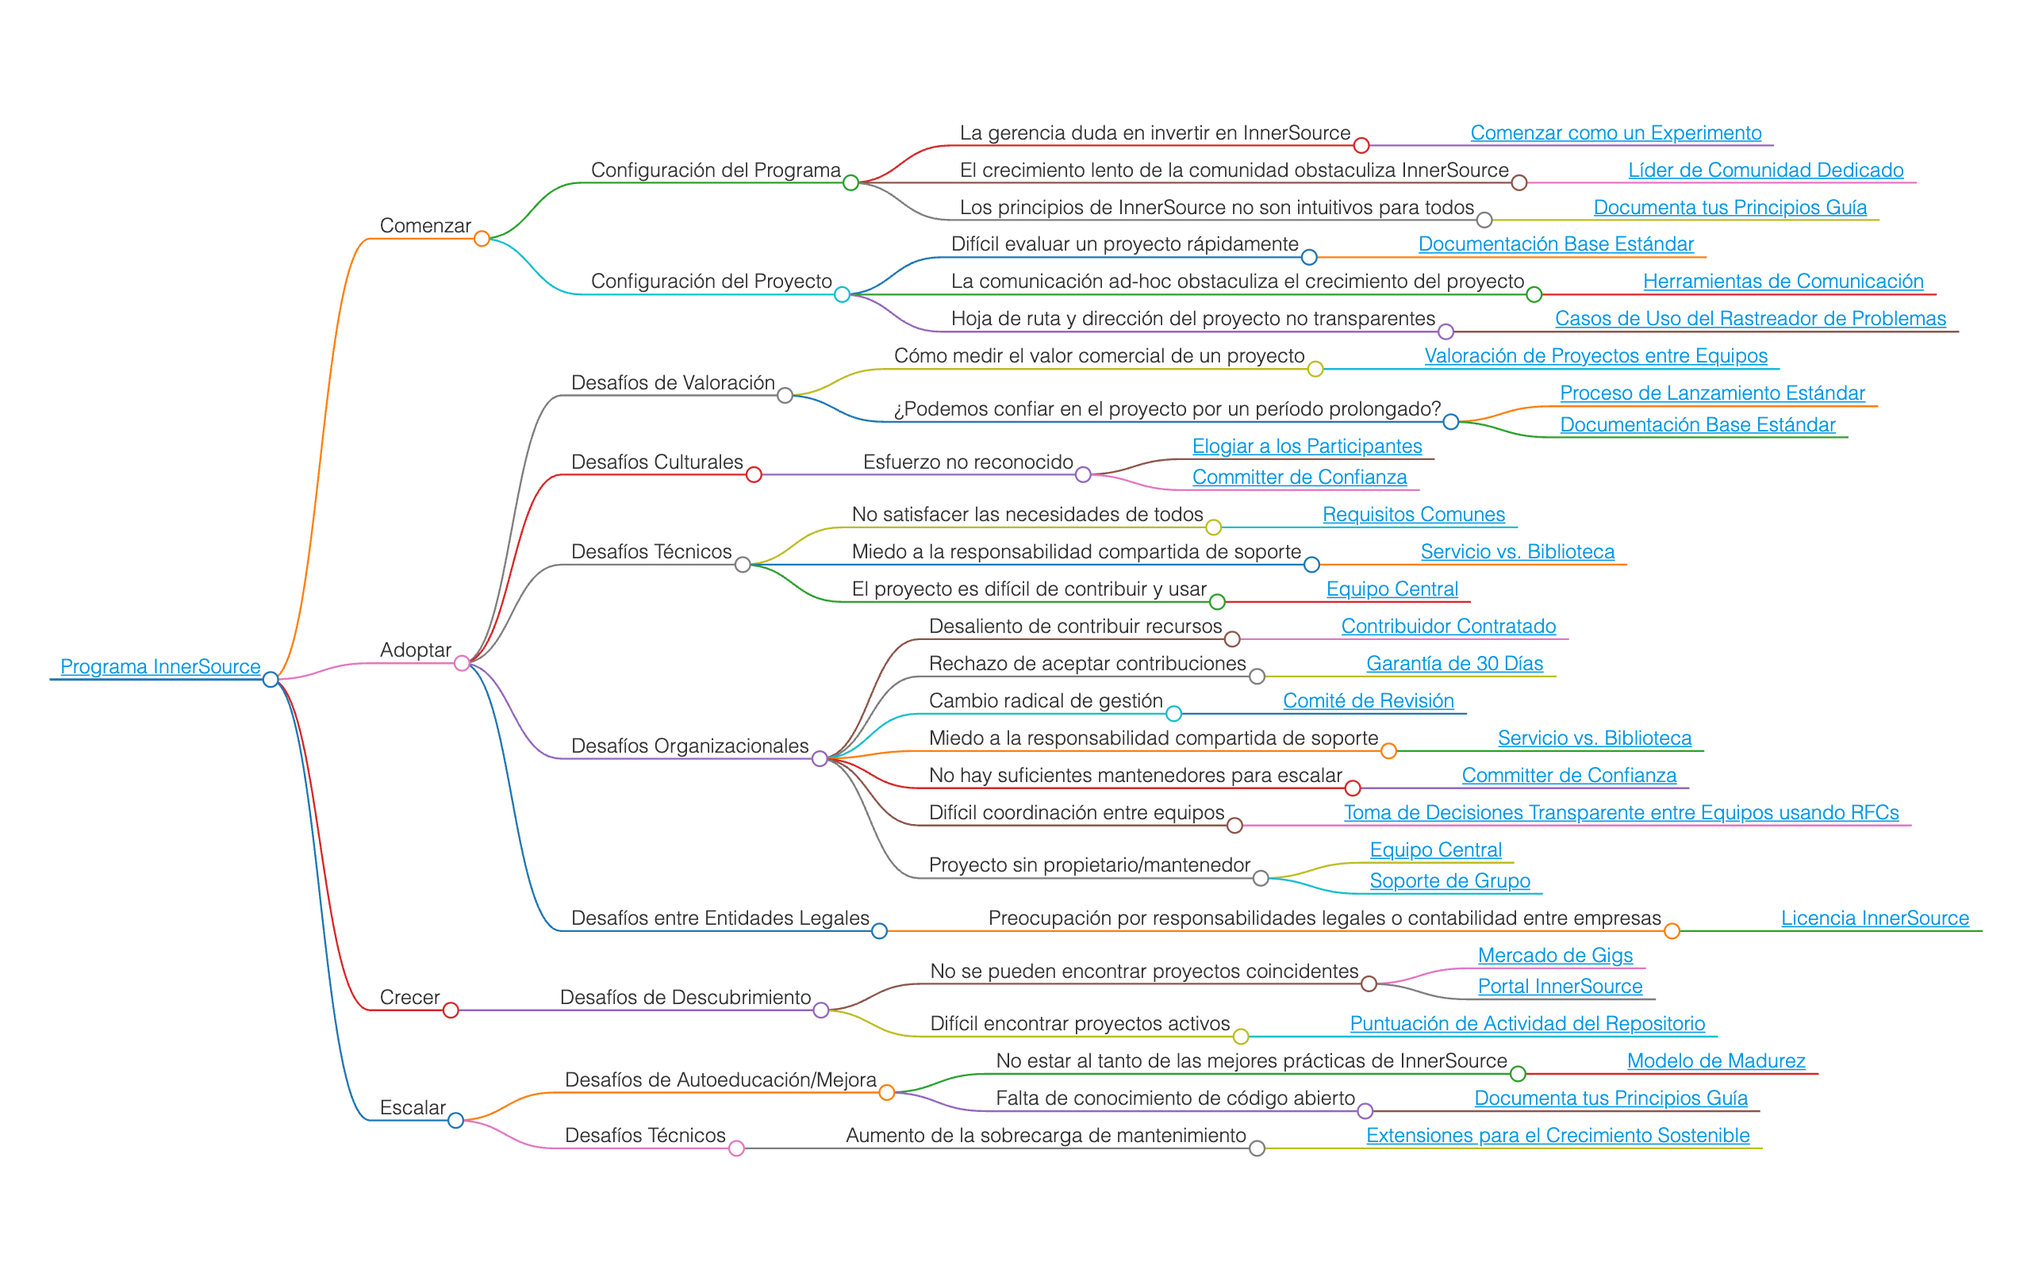
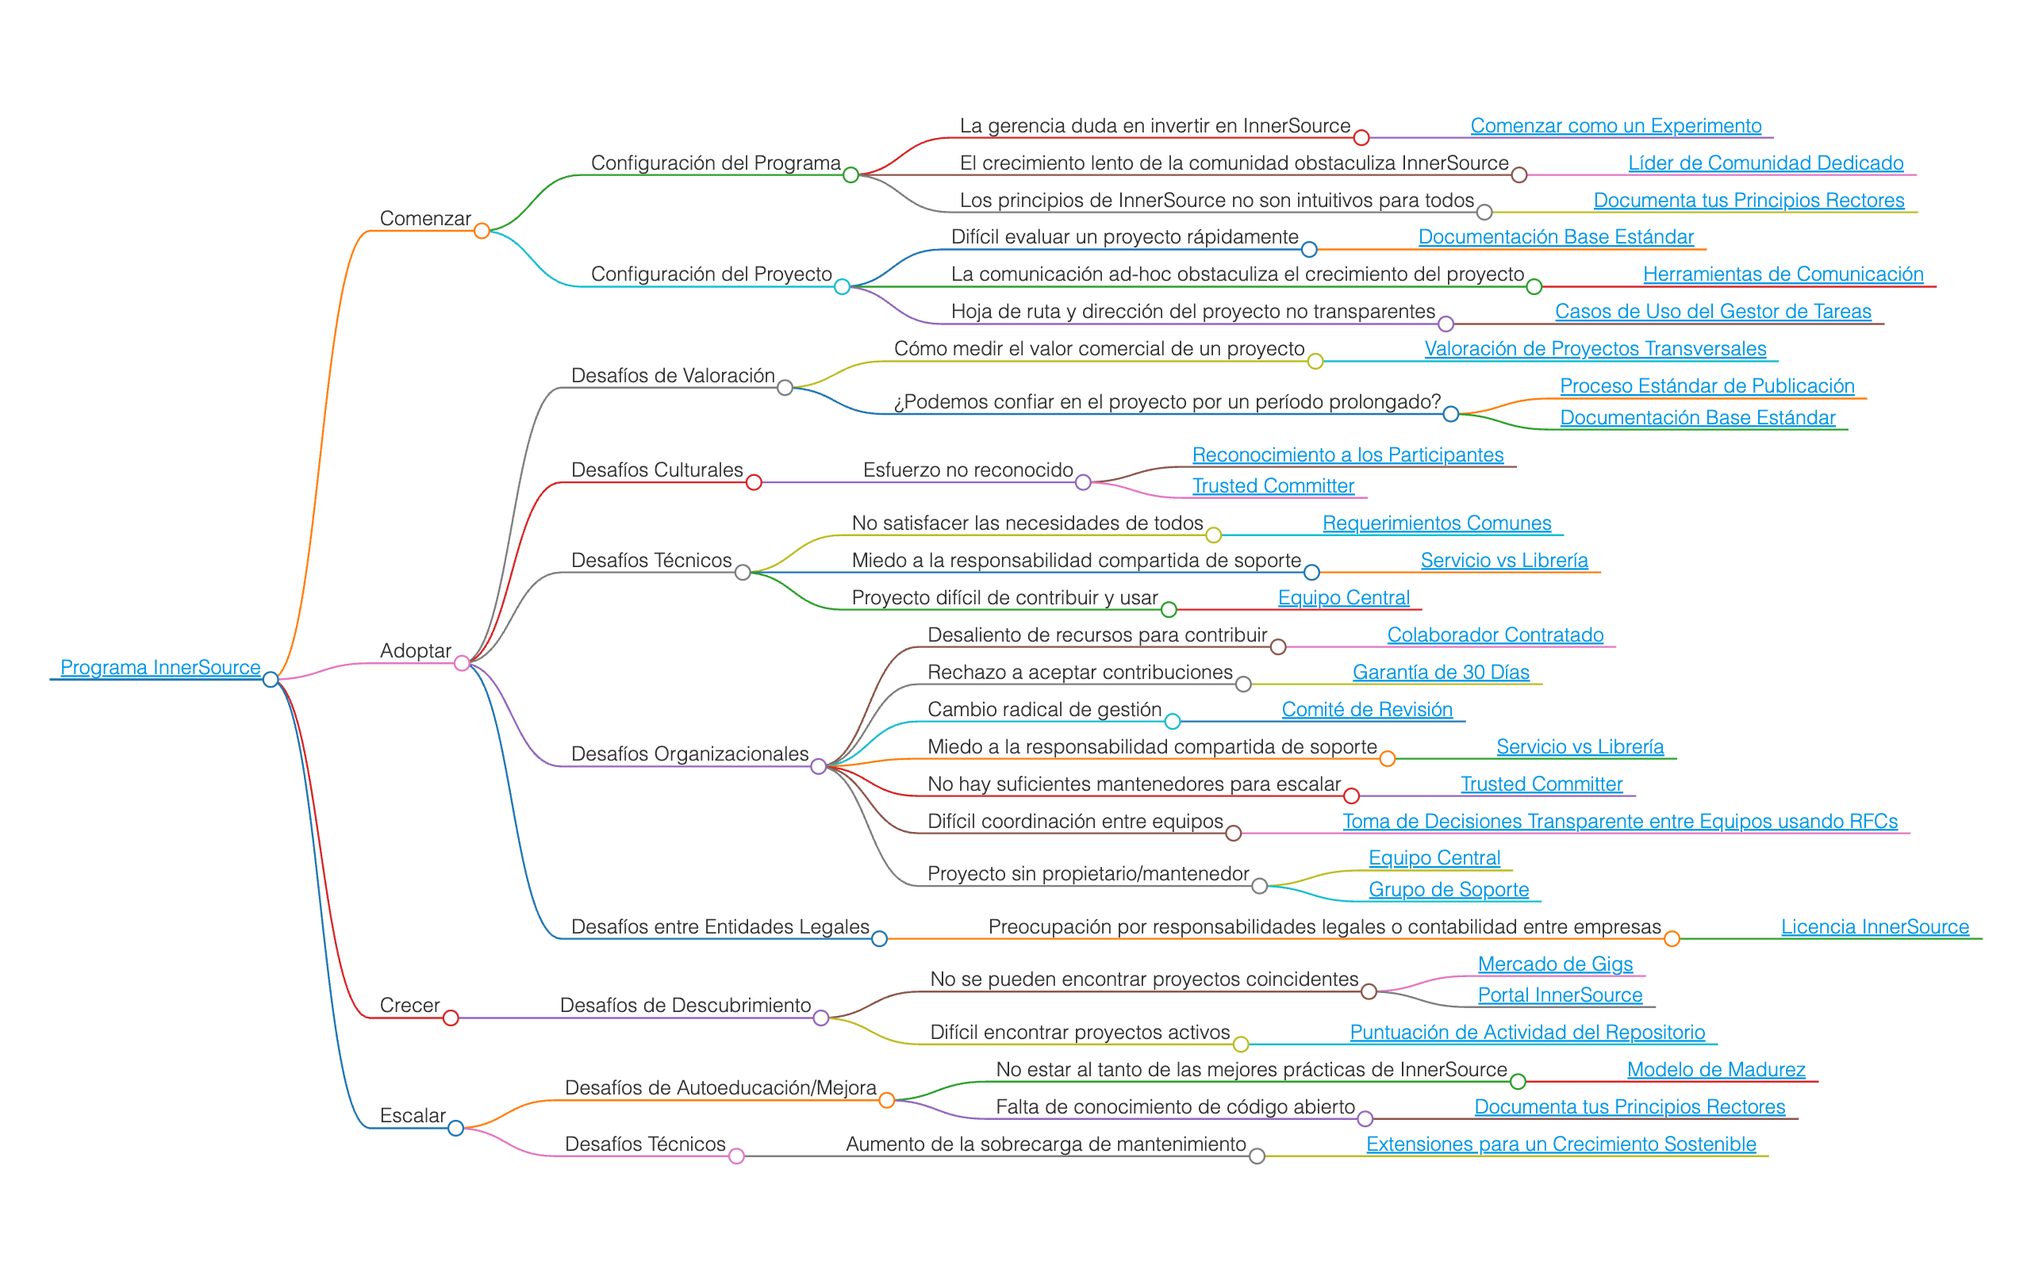
Regenerate mindmap

diff --git a/pattern-categorization/es/innersource-program-mind-map.html b/pattern-categorization/es/innersource-program-mind-map.html
@@ -27,6 +27,6 @@
                 (getOptions || markmap.deriveOptions)(jsonOptions),
                 root2
               );
-            })(() => window.markmap,null,{"content":"<a href=\"https://patterns.innersourcecommons.org/toc\">Programa InnerSource</a>","children":[{"content":"Comenzar","children":[{"content":"Configuración del Programa","children":[{"content":"La gerencia duda en invertir en InnerSource","children":[{"content":"<a href=\"https://patterns.innersourcecommons.org/p/start-as-experiment\">Comenzar como un Experimento</a>","children":[],"payload":{"tag":"h5","lines":"8,9"}}],"payload":{"tag":"h4","lines":"6,7"}},{"content":"El crecimiento lento de la comunidad obstaculiza InnerSource","children":[{"content":"<a href=\"https://patterns.innersourcecommons.org/p/dedicated-community-leader\">Líder de Comunidad Dedicado</a>","children":[],"payload":{"tag":"h5","lines":"12,13"}}],"payload":{"tag":"h4","lines":"10,11"}},{"content":"Los principios de InnerSource no son intuitivos para todos","children":[{"content":"<a href=\"https://patterns.innersourcecommons.org/p/document-your-guiding-principles\">Documenta tus Principios Guía</a>","children":[],"payload":{"tag":"h5","lines":"16,17"}}],"payload":{"tag":"h4","lines":"14,15"}}],"payload":{"tag":"h3","lines":"4,5"}},{"content":"Configuración del Proyecto","children":[{"content":"Difícil evaluar un proyecto rápidamente","children":[{"content":"<a href=\"https://patterns.innersourcecommons.org/p/base-documentation\">Documentación Base Estándar</a>","children":[],"payload":{"tag":"h5","lines":"22,23"}}],"payload":{"tag":"h4","lines":"20,21"}},{"content":"La comunicación ad-hoc obstaculiza el crecimiento del proyecto","children":[{"content":"<a href=\"https://patterns.innersourcecommons.org/p/communication-tooling\">Herramientas de Comunicación</a>","children":[],"payload":{"tag":"h5","lines":"26,27"}}],"payload":{"tag":"h4","lines":"24,25"}},{"content":"Hoja de ruta y dirección del proyecto no transparentes","children":[{"content":"<a href=\"https://patterns.innersourcecommons.org/p/issue-tracker\">Casos de Uso del Gestor de Tareas</a>","children":[],"payload":{"tag":"h5","lines":"30,31"}}],"payload":{"tag":"h4","lines":"28,29"}}],"payload":{"tag":"h3","lines":"18,19"}}],"payload":{"tag":"h2","lines":"2,3"}},{"content":"Adoptar","children":[{"content":"Desafíos de Valoración","children":[{"content":"Cómo medir el valor comercial de un proyecto","children":[{"content":"<a href=\"https://patterns.innersourcecommons.org/p/crossteam-project-valuation\">Valoración de Proyectos Transversales</a>","children":[],"payload":{"tag":"h5","lines":"38,39"}}],"payload":{"tag":"h4","lines":"36,37"}},{"content":"¿Podemos confiar en el proyecto por un período prolongado?","children":[{"content":"<a href=\"https://patterns.innersourcecommons.org/p/release-process\">Proceso de Lanzamiento Estándar</a>","children":[],"payload":{"tag":"h5","lines":"42,43"}},{"content":"<a href=\"https://patterns.innersourcecommons.org/p/base-documentation\">Documentación Base Estándar</a>","children":[],"payload":{"tag":"h5","lines":"44,45"}}],"payload":{"tag":"h4","lines":"40,41"}}],"payload":{"tag":"h3","lines":"34,35"}},{"content":"Desafíos Culturales","children":[{"content":"Esfuerzo no reconocido","children":[{"content":"<a href=\"https://patterns.innersourcecommons.org/p/praise-participants\">Reconocimiento a los Participantes</a>","children":[],"payload":{"tag":"h5","lines":"50,51"}},{"content":"<a href=\"https://patterns.innersourcecommons.org/p/trusted-committer\">Trusted Committer</a>","children":[],"payload":{"tag":"h5","lines":"52,53"}}],"payload":{"tag":"h4","lines":"48,49"}}],"payload":{"tag":"h3","lines":"46,47"}},{"content":"Desafíos Técnicos","children":[{"content":"No satisfacer las necesidades de todos","children":[{"content":"<a href=\"https://patterns.innersourcecommons.org/p/common-requirements\">Requisitos Comunes</a>","children":[],"payload":{"tag":"h5","lines":"58,59"}}],"payload":{"tag":"h4","lines":"56,57"}},{"content":"Miedo a la responsabilidad compartida de soporte","children":[{"content":"<a href=\"https://patterns.innersourcecommons.org/p/service-vs-library\">Servicio vs. Librería</a>","children":[],"payload":{"tag":"h5","lines":"62,63"}}],"payload":{"tag":"h4","lines":"60,61"}},{"content":"El proyecto es difícil de contribuir y usar","children":[{"content":"<a href=\"https://patterns.innersourcecommons.org/p/core-team\">Equipo Central</a>","children":[],"payload":{"tag":"h5","lines":"66,67"}}],"payload":{"tag":"h4","lines":"64,65"}}],"payload":{"tag":"h3","lines":"54,55"}},{"content":"Desafíos Organizacionales","children":[{"content":"Desaliento de contribuir recursos","children":[{"content":"<a href=\"https://patterns.innersourcecommons.org/p/contracted-contributor\">Contribuidor Contratado</a>","children":[],"payload":{"tag":"h5","lines":"72,73"}}],"payload":{"tag":"h4","lines":"70,71"}},{"content":"Rechazo de aceptar contribuciones","children":[{"content":"<a href=\"https://patterns.innersourcecommons.org/p/30-day-warranty\">Garantía de 30 Días</a>","children":[],"payload":{"tag":"h5","lines":"76,77"}}],"payload":{"tag":"h4","lines":"74,75"}},{"content":"Cambio radical de gestión","children":[{"content":"<a href=\"https://patterns.innersourcecommons.org/p/review-committee\">Comité de Revisión</a>","children":[],"payload":{"tag":"h5","lines":"80,81"}}],"payload":{"tag":"h4","lines":"78,79"}},{"content":"Miedo a la responsabilidad compartida de soporte","children":[{"content":"<a href=\"https://patterns.innersourcecommons.org/p/service-vs-library\">Servicio vs. Librería</a>","children":[],"payload":{"tag":"h5","lines":"84,85"}}],"payload":{"tag":"h4","lines":"82,83"}},{"content":"No hay suficientes mantenedores para escalar","children":[{"content":"<a href=\"https://patterns.innersourcecommons.org/p/trusted-committer\">Trusted Committer</a>","children":[],"payload":{"tag":"h5","lines":"88,89"}}],"payload":{"tag":"h4","lines":"86,87"}},{"content":"Difícil coordinación entre equipos","children":[{"content":"<a href=\"https://patterns.innersourcecommons.org/p/transparent-cross-team-decision-making-using-rfcs\">Toma de Decisiones Transparente entre Equipos usando RFCs</a>","children":[],"payload":{"tag":"h5","lines":"92,93"}}],"payload":{"tag":"h4","lines":"90,91"}},{"content":"Proyecto sin propietario/mantenedor","children":[{"content":"<a href=\"https://patterns.innersourcecommons.org/p/core-team\">Equipo Central</a>","children":[],"payload":{"tag":"h5","lines":"96,97"}},{"content":"<a href=\"https://patterns.innersourcecommons.org/p/group-support\">Soporte de Grupo</a>","children":[],"payload":{"tag":"h5","lines":"98,99"}}],"payload":{"tag":"h4","lines":"94,95"}}],"payload":{"tag":"h3","lines":"68,69"}},{"content":"Desafíos entre Entidades Legales","children":[{"content":"Preocupación por responsabilidades legales o contabilidad entre empresas","children":[{"content":"<a href=\"https://patterns.innersourcecommons.org/p/innersource-license\">Licencia InnerSource</a>","children":[],"payload":{"tag":"h5","lines":"104,105"}}],"payload":{"tag":"h4","lines":"102,103"}}],"payload":{"tag":"h3","lines":"100,101"}}],"payload":{"tag":"h2","lines":"32,33"}},{"content":"Crecer","children":[{"content":"Desafíos de Descubrimiento","children":[{"content":"No se pueden encontrar proyectos coincidentes","children":[{"content":"<a href=\"https://patterns.innersourcecommons.org/p/gig-marketplace\">Mercado de Gigs</a>","children":[],"payload":{"tag":"h5","lines":"112,113"}},{"content":"<a href=\"https://patterns.innersourcecommons.org/p/innersource-portal\">Portal InnerSource</a>","children":[],"payload":{"tag":"h5","lines":"114,115"}}],"payload":{"tag":"h4","lines":"110,111"}},{"content":"Difícil encontrar proyectos activos","children":[{"content":"<a href=\"https://patterns.innersourcecommons.org/p/repository-activity-score\">Puntuación de Actividad del Repositorio</a>","children":[],"payload":{"tag":"h5","lines":"118,119"}}],"payload":{"tag":"h4","lines":"116,117"}}],"payload":{"tag":"h3","lines":"108,109"}}],"payload":{"tag":"h2","lines":"106,107"}},{"content":"Escalar","children":[{"content":"Desafíos de Autoeducación/Mejora","children":[{"content":"No estar al tanto de las mejores prácticas de InnerSource","children":[{"content":"<a href=\"https://patterns.innersourcecommons.org/p/maturity-model\">Modelo de Madurez</a>","children":[],"payload":{"tag":"h5","lines":"126,127"}}],"payload":{"tag":"h4","lines":"124,125"}},{"content":"Falta de conocimiento de código abierto","children":[{"content":"<a href=\"https://patterns.innersourcecommons.org/p/document-your-guiding-principles\">Documenta tus Principios Guía</a>","children":[],"payload":{"tag":"h5","lines":"130,131"}}],"payload":{"tag":"h4","lines":"128,129"}}],"payload":{"tag":"h3","lines":"122,123"}},{"content":"Desafíos Técnicos","children":[{"content":"Aumento de la sobrecarga de mantenimiento","children":[{"content":"<a href=\"https://patterns.innersourcecommons.org/p/extensions-for-sustainable-growth\">Extensiones para el Crecimiento Sostenible</a>","children":[],"payload":{"tag":"h5","lines":"136,137"}}],"payload":{"tag":"h4","lines":"134,135"}}],"payload":{"tag":"h3","lines":"132,133"}}],"payload":{"tag":"h2","lines":"120,121"}}],"payload":{"tag":"h1","lines":"0,1"}},null)</script>
+            })(() => window.markmap,null,{"content":"<a href=\"https://patterns.innersourcecommons.org/toc\">Programa InnerSource</a>","children":[{"content":"Comenzar","children":[{"content":"Configuración del Programa","children":[{"content":"La gerencia duda en invertir en InnerSource","children":[{"content":"<a href=\"https://patterns.innersourcecommons.org/p/start-as-experiment\">Comenzar como un Experimento</a>","children":[],"payload":{"tag":"h5","lines":"8,9"}}],"payload":{"tag":"h4","lines":"6,7"}},{"content":"El crecimiento lento de la comunidad obstaculiza InnerSource","children":[{"content":"<a href=\"https://patterns.innersourcecommons.org/p/dedicated-community-leader\">Líder de Comunidad Dedicado</a>","children":[],"payload":{"tag":"h5","lines":"12,13"}}],"payload":{"tag":"h4","lines":"10,11"}},{"content":"Los principios de InnerSource no son intuitivos para todos","children":[{"content":"<a href=\"https://patterns.innersourcecommons.org/p/document-your-guiding-principles\">Documenta tus Principios Rectores</a>","children":[],"payload":{"tag":"h5","lines":"16,17"}}],"payload":{"tag":"h4","lines":"14,15"}}],"payload":{"tag":"h3","lines":"4,5"}},{"content":"Configuración del Proyecto","children":[{"content":"Difícil evaluar un proyecto rápidamente","children":[{"content":"<a href=\"https://patterns.innersourcecommons.org/p/base-documentation\">Documentación Base Estándar</a>","children":[],"payload":{"tag":"h5","lines":"22,23"}}],"payload":{"tag":"h4","lines":"20,21"}},{"content":"La comunicación ad-hoc obstaculiza el crecimiento del proyecto","children":[{"content":"<a href=\"https://patterns.innersourcecommons.org/p/communication-tooling\">Herramientas de Comunicación</a>","children":[],"payload":{"tag":"h5","lines":"26,27"}}],"payload":{"tag":"h4","lines":"24,25"}},{"content":"Hoja de ruta y dirección del proyecto no transparentes","children":[{"content":"<a href=\"https://patterns.innersourcecommons.org/p/issue-tracker\">Casos de Uso del Gestor de Tareas</a>","children":[],"payload":{"tag":"h5","lines":"30,31"}}],"payload":{"tag":"h4","lines":"28,29"}}],"payload":{"tag":"h3","lines":"18,19"}}],"payload":{"tag":"h2","lines":"2,3"}},{"content":"Adoptar","children":[{"content":"Desafíos de Valoración","children":[{"content":"Cómo medir el valor comercial de un proyecto","children":[{"content":"<a href=\"https://patterns.innersourcecommons.org/p/crossteam-project-valuation\">Valoración de Proyectos Transversales</a>","children":[],"payload":{"tag":"h5","lines":"38,39"}}],"payload":{"tag":"h4","lines":"36,37"}},{"content":"¿Podemos confiar en el proyecto por un período prolongado?","children":[{"content":"<a href=\"https://patterns.innersourcecommons.org/p/release-process\">Proceso Estándar de Publicación</a>","children":[],"payload":{"tag":"h5","lines":"42,43"}},{"content":"<a href=\"https://patterns.innersourcecommons.org/p/base-documentation\">Documentación Base Estándar</a>","children":[],"payload":{"tag":"h5","lines":"44,45"}}],"payload":{"tag":"h4","lines":"40,41"}}],"payload":{"tag":"h3","lines":"34,35"}},{"content":"Desafíos Culturales","children":[{"content":"Esfuerzo no reconocido","children":[{"content":"<a href=\"https://patterns.innersourcecommons.org/p/praise-participants\">Reconocimiento a los Participantes</a>","children":[],"payload":{"tag":"h5","lines":"50,51"}},{"content":"<a href=\"https://patterns.innersourcecommons.org/p/trusted-committer\">Trusted Committer</a>","children":[],"payload":{"tag":"h5","lines":"52,53"}}],"payload":{"tag":"h4","lines":"48,49"}}],"payload":{"tag":"h3","lines":"46,47"}},{"content":"Desafíos Técnicos","children":[{"content":"No satisfacer las necesidades de todos","children":[{"content":"<a href=\"https://patterns.innersourcecommons.org/p/common-requirements\">Requerimientos Comunes</a>","children":[],"payload":{"tag":"h5","lines":"58,59"}}],"payload":{"tag":"h4","lines":"56,57"}},{"content":"Miedo a la responsabilidad compartida de soporte","children":[{"content":"<a href=\"https://patterns.innersourcecommons.org/p/service-vs-library\">Servicio vs Librería</a>","children":[],"payload":{"tag":"h5","lines":"62,63"}}],"payload":{"tag":"h4","lines":"60,61"}},{"content":"Proyecto difícil de contribuir y usar","children":[{"content":"<a href=\"https://patterns.innersourcecommons.org/p/core-team\">Equipo Central</a>","children":[],"payload":{"tag":"h5","lines":"66,67"}}],"payload":{"tag":"h4","lines":"64,65"}}],"payload":{"tag":"h3","lines":"54,55"}},{"content":"Desafíos Organizacionales","children":[{"content":"Desaliento de recursos para contribuir","children":[{"content":"<a href=\"https://patterns.innersourcecommons.org/p/contracted-contributor\">Colaborador Contratado</a>","children":[],"payload":{"tag":"h5","lines":"72,73"}}],"payload":{"tag":"h4","lines":"70,71"}},{"content":"Rechazo a aceptar contribuciones","children":[{"content":"<a href=\"https://patterns.innersourcecommons.org/p/30-day-warranty\">Garantía de 30 Días</a>","children":[],"payload":{"tag":"h5","lines":"76,77"}}],"payload":{"tag":"h4","lines":"74,75"}},{"content":"Cambio radical de gestión","children":[{"content":"<a href=\"https://patterns.innersourcecommons.org/p/review-committee\">Comité de Revisión</a>","children":[],"payload":{"tag":"h5","lines":"80,81"}}],"payload":{"tag":"h4","lines":"78,79"}},{"content":"Miedo a la responsabilidad compartida de soporte","children":[{"content":"<a href=\"https://patterns.innersourcecommons.org/p/service-vs-library\">Servicio vs Librería</a>","children":[],"payload":{"tag":"h5","lines":"84,85"}}],"payload":{"tag":"h4","lines":"82,83"}},{"content":"No hay suficientes mantenedores para escalar","children":[{"content":"<a href=\"https://patterns.innersourcecommons.org/p/trusted-committer\">Trusted Committer</a>","children":[],"payload":{"tag":"h5","lines":"88,89"}}],"payload":{"tag":"h4","lines":"86,87"}},{"content":"Difícil coordinación entre equipos","children":[{"content":"<a href=\"https://patterns.innersourcecommons.org/p/transparent-cross-team-decision-making-using-rfcs\">Toma de Decisiones Transparente entre Equipos usando RFCs</a>","children":[],"payload":{"tag":"h5","lines":"92,93"}}],"payload":{"tag":"h4","lines":"90,91"}},{"content":"Proyecto sin propietario/mantenedor","children":[{"content":"<a href=\"https://patterns.innersourcecommons.org/p/core-team\">Equipo Central</a>","children":[],"payload":{"tag":"h5","lines":"96,97"}},{"content":"<a href=\"https://patterns.innersourcecommons.org/p/group-support\">Grupo de Soporte</a>","children":[],"payload":{"tag":"h5","lines":"98,99"}}],"payload":{"tag":"h4","lines":"94,95"}}],"payload":{"tag":"h3","lines":"68,69"}},{"content":"Desafíos entre Entidades Legales","children":[{"content":"Preocupación por responsabilidades legales o contabilidad entre empresas","children":[{"content":"<a href=\"https://patterns.innersourcecommons.org/p/innersource-license\">Licencia InnerSource</a>","children":[],"payload":{"tag":"h5","lines":"104,105"}}],"payload":{"tag":"h4","lines":"102,103"}}],"payload":{"tag":"h3","lines":"100,101"}}],"payload":{"tag":"h2","lines":"32,33"}},{"content":"Crecer","children":[{"content":"Desafíos de Descubrimiento","children":[{"content":"No se pueden encontrar proyectos coincidentes","children":[{"content":"<a href=\"https://patterns.innersourcecommons.org/p/gig-marketplace\">Mercado de Gigs</a>","children":[],"payload":{"tag":"h5","lines":"112,113"}},{"content":"<a href=\"https://patterns.innersourcecommons.org/p/innersource-portal\">Portal InnerSource</a>","children":[],"payload":{"tag":"h5","lines":"114,115"}}],"payload":{"tag":"h4","lines":"110,111"}},{"content":"Difícil encontrar proyectos activos","children":[{"content":"<a href=\"https://patterns.innersourcecommons.org/p/repository-activity-score\">Puntuación de Actividad del Repositorio</a>","children":[],"payload":{"tag":"h5","lines":"118,119"}}],"payload":{"tag":"h4","lines":"116,117"}}],"payload":{"tag":"h3","lines":"108,109"}}],"payload":{"tag":"h2","lines":"106,107"}},{"content":"Escalar","children":[{"content":"Desafíos de Autoeducación/Mejora","children":[{"content":"No estar al tanto de las mejores prácticas de InnerSource","children":[{"content":"<a href=\"https://patterns.innersourcecommons.org/p/maturity-model\">Modelo de Madurez</a>","children":[],"payload":{"tag":"h5","lines":"126,127"}}],"payload":{"tag":"h4","lines":"124,125"}},{"content":"Falta de conocimiento de código abierto","children":[{"content":"<a href=\"https://patterns.innersourcecommons.org/p/document-your-guiding-principles\">Documenta tus Principios Rectores</a>","children":[],"payload":{"tag":"h5","lines":"130,131"}}],"payload":{"tag":"h4","lines":"128,129"}}],"payload":{"tag":"h3","lines":"122,123"}},{"content":"Desafíos Técnicos","children":[{"content":"Aumento de la sobrecarga de mantenimiento","children":[{"content":"<a href=\"https://patterns.innersourcecommons.org/p/extensions-for-sustainable-growth\">Extensiones para un Crecimiento Sostenible</a>","children":[],"payload":{"tag":"h5","lines":"136,137"}}],"payload":{"tag":"h4","lines":"134,135"}}],"payload":{"tag":"h3","lines":"132,133"}}],"payload":{"tag":"h2","lines":"120,121"}}],"payload":{"tag":"h1","lines":"0,1"}},null)</script>
 </body>
 </html>
